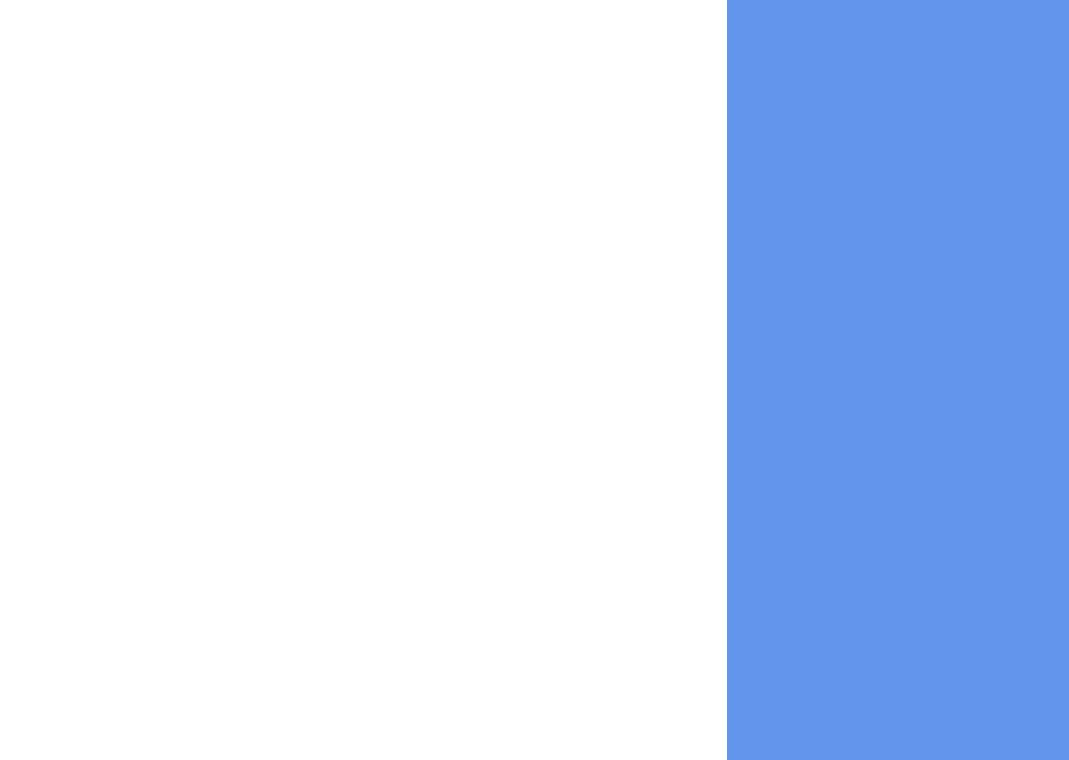
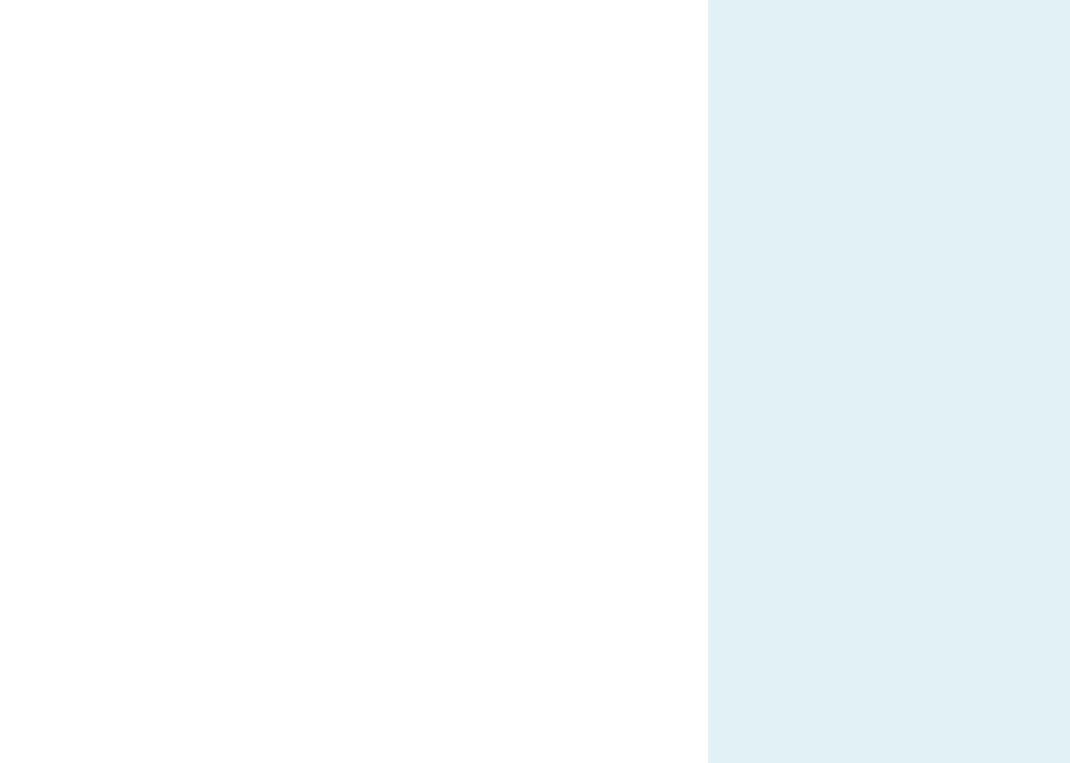
edits

diff --git a/resources/views/about.blade.php b/resources/views/about.blade.php
@@ -4,13 +4,14 @@
 
     <style>
         body {
-            background-color: azure;
+            background-color: #e1f1f5;
         }
 
     </style>
 
-    <div class="container" style="margin-top: 10%">
+    <div class="container" style="margin-top: 14%">
         <div style="background-color: white">
+            <br><br>
             <h2 class="text-center">~ Our Mission ~</h2>
             <h6 class="text-center">To connect investors to zeleous enterpreneurs</h6>
 
@@ -23,11 +24,14 @@
                 deeply their targets before matching them. Lorem ipsum dolor sit amet consectetur adipisicing elit.
                 Molestias rerum velit, aliquid tempore, accusamus
                 hic at fugiat voluptatibus nulla officia expedita qui! Error, libero voluptatum. Corrupti illo officia optio
-                repellat. <br><br>
+                repellat. Lorem ipsum dolor, sit amet consectetur adipisicing elit. Nesciunt, quas culpa? Adipisci vel
+                voluptates doloremque dolorem recusandae ipsum exercitationem fugit doloribus expedita ab eligendi
+                voluptatem, at quas quos dolores deserunt!<br><br><br>
             </p>
 
 
         </div>
+        <br><br>
 
         <div style="background-color: white">
             <h2 class="text-center" style="padding-top:3%">~ Leadership ~</h2>
